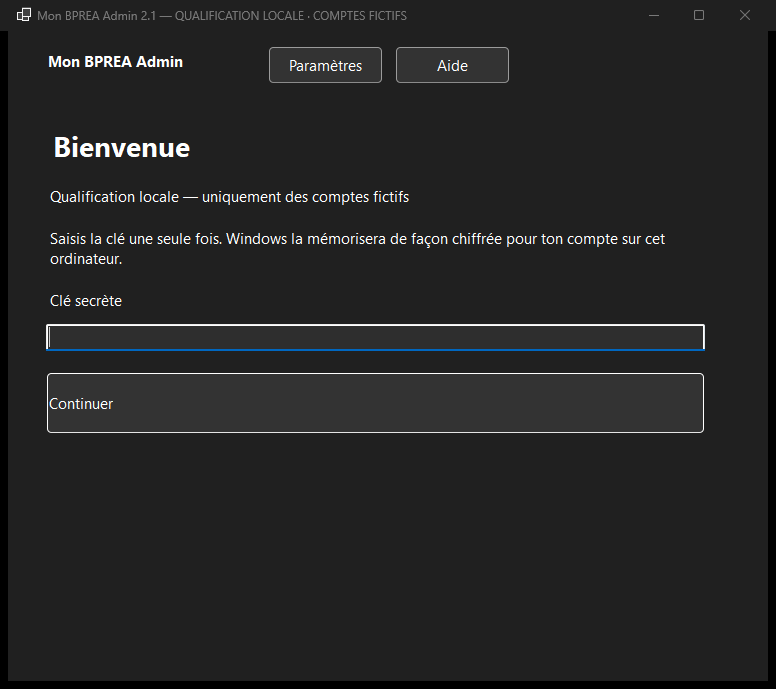
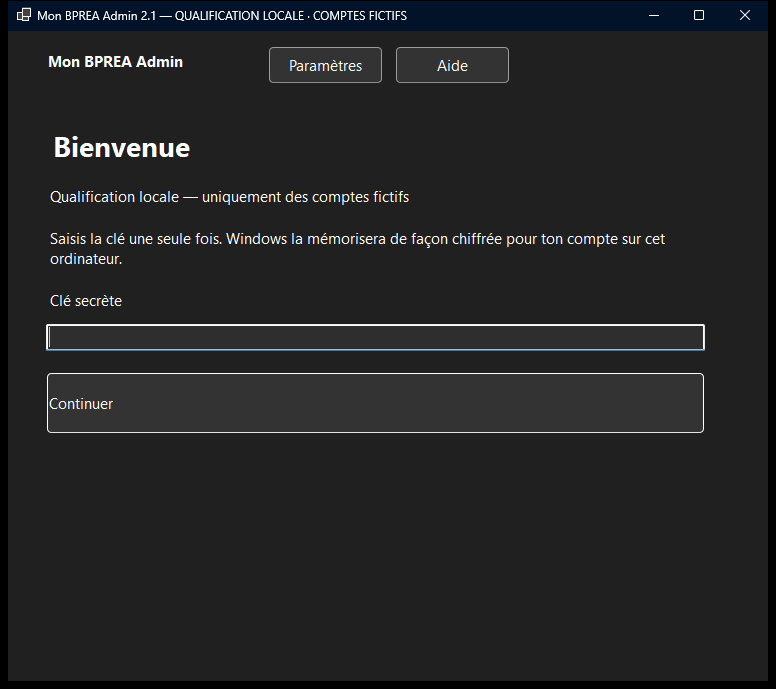
docs: qualify first production invitation with a verified restore

Changed region(s): [[0.0, 0.0, 1.0, 0.061]]

diff --git a/docs/validations/VALIDATION-PREMIERE-INVITATION-PROD.md b/docs/validations/VALIDATION-PREMIERE-INVITATION-PROD.md
@@ -1,21 +1,20 @@
 # Qualification de la première invitation PROD
 
-**18 novembre 2026 — NO GO — CONDITIONS NON SATISFAITES.** Le poste retrouve
-l’historique administratif d’origine. Le point applicatif du 8 novembre est
-intègre et sa limite est dépassée depuis le **15 novembre à 21:48:37 CET**.
-La qualification opérationnelle reste suspendue à la validation des accès dans
-l’assistant et à une nouvelle archive PROD restaurée sur ce poste.
+**18 novembre 2026 — GO — PREMIÈRE INVITATION PROD AUTORISABLE.**
+**Sauvegarde applicative PROD restaurée et vérifiée.** Le binaire 2.1 a
+renouvelé le point restauré et retrouve l’historique administratif d’origine.
+Le nouveau point arrive à échéance le **25 novembre 2026 à 13:09:16 CET**.
 
 ## Référence et distribution
 
 | Élément | Résultat |
 | --- | --- |
 | Base du chantier | `e5607415b6cc8409d7b7cd1c2957338a4fcacf7e`, fusion [#67](https://github.com/Vladoche/mon-bprea/pull/67) |
-| Revue du changement | [PR #68](https://github.com/Vladoche/mon-bprea/pull/68), ouverte en brouillon |
-| Sources du binaire testé | `35b7375b87369c6ede90ca4362367bf95d4d92b5` |
+| Revue du changement | [PR #68](https://github.com/Vladoche/mon-bprea/pull/68) et [checks de la PR](https://github.com/Vladoche/mon-bprea/pull/68/checks) |
+| Sources du binaire final testé | `7a8948411826eec6196cbf049c7989d75b3ebd88` |
 | Distribution | Mon BPREA Admin **2.1.0.0**, Windows x64 autonome, SDK .NET 10.0.404, exécutable de 116 576 602 octets, signature Authenticode absente |
[4 lines of base64/hex data omitted]
 | Poste | Windows NT 10.0.26300.0, profil opérateur vérifié pour les contrôles réels et espaces isolés pour la recette fictive |
 
 La V2 de référence avait déjà les trois actions, le coffre Windows, DPAPI et le
@@ -34,27 +33,40 @@ perte de la dernière génération valide. [Architecture](../../tools/mon-bprea-
   fichier de lien lisible et DPAPI vérifiés. Ce lien du contrat Node V1 bénéficie
   d’une protection ACL. Les empreintes et dates d’écriture de tous les fichiers
   d’origine concordent après le raccordement et la réouverture.
-- **Sauvegarde.** Point du **8 novembre à 21:48:37 CET**, génération EFS hors
-  dépôt, archive et preuve associée relues et concordantes. Le journal courant
-  examiné contient zéro entrée. Le vérificateur pour opérateur a refusé la
-  preuve courante et l’exécutable a identifié l’expiration de l’archive qualifiée.
-  L’intervalle RPO dépassé est ouvert depuis le **15 novembre à 21:48:37 CET**.
-  Nouvelle extraction, restauration et prochaine échéance valides en attente.
-- **Connexion.** Le Gestionnaire d’identifiants Windows réserve une entrée à
-  Auth et une autre à PostgreSQL. Les deux entrées PROD sont absentes au relevé.
-  Le point d’accès PostgreSQL direct répond en TLS vérifié et exige le mot de
-  passe. La version 2.1 a démarré, retrouvé l’historique et affiché les états
-  d’expiration et de blocage.
-- **PROD.** Projet fixe vérifié actif. L’endpoint public des réglages Auth
-  indique l’inscription publique et anonyme fermées, e-mail activé et confirmation
-  requise. Une transaction SQL en lecture seule a relevé un compte confirmé,
-  un seul UUID et une seule adresse distincte, un profil associé et zéro compte
-  ambigu. Six places administratives restent disponibles à ce relevé. Les dix
-  tables applicatives ont RLS et 24 politiques. La lecture de tables applicatives
-  par `anon` et `service_role` est refusée selon le contrôle de privilèges.
-  `authenticated` ne peut ni renseigner ni modifier `profiles.id`. La lecture
-  avec la clé administrative de l’application et la comparaison PostgreSQL
-  détaillée du préflight restent à effectuer avec les accès du poste.
+- **Sauvegarde initiale examinée.** Point du **8 novembre à 21:48:37 CET**,
+  génération EFS hors dépôt, archive et preuve associée relues et concordantes.
+  Son échéance était le **15 novembre à 21:48:37 CET**. Le journal courant
+  examiné contient zéro entrée.
+- **Nouvelle génération retenue.** Capture PostgreSQL 17.11 du **18 novembre à
+  13:09:16.682 CET**, terminée à **13:09:19.296 CET**, pour **141 222 octets**.
+  Restauration effective et preuve à **13:09:41.577 CET**. Les dix tables,
+  données, structures et droits concordent. Une racine UUID Auth minimale
+  correspond au profil et aux dépendances SQL. Le cluster isolé est arrêté et
+  ses checksums sont conformes. Le vérificateur Node existant a recalculé les
+  empreintes du manifeste, de l’archive et du journal courant et a confirmé
+  l’objectif RPO applicatif. Les preuves et empreintes privées restent sur le
+  stockage Windows chiffré EFS, hors dépôt.
+- **Incident de fraîcheur.** Le dépassement opérationnel a duré du
+  **15 novembre à 21:48:37 CET** au **18 novembre à 13:09:41 CET**.
+  Une première nouvelle archive a été restaurée à **13:02:19 CET**, avec
+  comparaison réussie. Le vérificateur indépendant a refusé ses dates au format
+  Windows. Le correctif a rétabli le format UTC du contrat et l’application a
+  produit une génération distincte, restaurée à son tour. Les archives du 8
+  novembre et de la première tentative ainsi que leurs preuves sont conservées.
+- **Connexion et réouverture.** L’exploitant a renseigné les deux accès dans des
+  champs masqués. Le Gestionnaire d’identifiants Windows a conservé les accès dans
+  deux entrées distinctes après validation. Le binaire final a repris l’historique
+  et a renouvelé la sauvegarde à l’ouverture, avec les accès mémorisés. Une nouvelle
+  ouverture a retrouvé les trois actions et l’état prêt sans ressaisie.
+- **Préflight PROD à 13:11:16 CET.** Projet fixe actif. Les protections Auth
+  confirment l’inscription publique et anonyme fermées, avec confirmation par
+  e-mail. Un seul compte confirmé, reconnu comme exploitant par l’historique, un
+  profil associé, zéro doublon ou compte ambigu, six places disponibles. La
+  concordance Auth/PostgreSQL, des migrations, du catalogue et des droits
+  applicatifs est vérifiée. Les dix tables ont RLS et 24 politiques. Les
+  privilèges de lecture de `anon` et `service_role` et d’écriture de
+  `profiles.id` sont conformes au périmètre attendu. Les contrôles PROD sont
+  restés en lecture seule.
 
 Le point historique a été restauré le 8 novembre dans un cluster PostgreSQL
 isolé. Son périmètre est `public` et `bprea_private`, avec les dix tables,
@@ -70,60 +82,61 @@ synchronisées restent hors portée. Le RTO hébergé reste à qualifier.
 | --- | --- |
 | Vecteurs Node et tests historiques | 87 vecteurs de contrat. Suite Node complète 640 réussis et un ignoré, dont les journaux V1/V1.1/V2 et les scénarios d’incertitude |
 | .NET et stockage réel Windows | 2 573 assertions. Coffre, DPAPI, ACL, EFS, historiques V1/V1.1/V2, réservation ouverte, reçu illisible, fichier manquant, conflit, pointeur périmé et reprise interrompue. Tests du garde avant réservation et POST |
-| PostgreSQL natif Windows | 18 assertions. Archive EDB 17.12 vérifiée et préparée automatiquement. Archive synthétique restaurée dans un second cluster SCRAM en boucle locale. Comparaisons et arrêt vérifiés. Archive corrompue, contenu divergent et journal modifié refusés. L’archive valide reste disponible. Échéance sous horloge contrôlée à 144 h et 168 h |
+| PostgreSQL natif Windows | 18 assertions au premier passage avec préparation de l’archive EDB 17.12 selon son empreinte. 18 assertions sur le correctif avec outils existants, dont la régression du format de date UTC. Archives synthétiques restaurées dans des clusters SCRAM en boucle locale. Archive corrompue, contenu divergent et journal modifié refusés. L’archive valide reste disponible. Horloge contrôlée à 144 h et 168 h |
 | WinForms et paquet | 33 contrôles WinForms, inspection de la distribution, ZIP à trois fichiers et fenêtre de l’exécutable autonome observée |
-| Binaire x64 et stack locale réelle | Champ de clé masqué, configuration initiale, trois actions, fermeture et réouverture sans ressaisie. Création puis activation avec un navigateur neuf et profil lié. Mot de passe seul, e-mail seul et les deux. Connexions réelles sur comptes fictifs, UUID et données des dix tables préservés |
+| Binaire x64 et stack locale réelle | Champ de clé masqué, configuration initiale, trois actions, fermeture et réouverture sans ressaisie. Les trois récupérations ont conservé l’UUID et les données des dix tables. Création puis activation rejouées avec le binaire corrigé dans un navigateur neuf, profil lié et données des autres comptes fictifs préservées |
 | Suppression PROD | Garde testé avant envoi d’un DELETE et réservation. Aucun parcours destructif sur le service hébergé |
 
 Le premier essai natif a révélé que le processus PostgreSQL gardait le flux de
 contrôle Windows ouvert. Le binaire corrigé sépare ce flux. La recette PostgreSQL
 a ensuite réussi, y compris la lecture des empreintes et le refus des tentatives
-invalides. Les captures d’application concernent le binaire référencé ci-dessus.
+invalides. Les captures d’état prêt, de réouverture et d’activation concernent
+le binaire final. La capture du blocage garde la trace de l’état initial.
 La stack fictive a été arrêtée après la recette, ses deux volumes sont conservés.
 Le contrôle de fin de livraison `npm run delivery:complete` a réussi après
-arrêt des tests. Il a libéré **0 Mo** et conservé **7 573,70 Mo** sous `.tmp`.
+arrêt des tests. Il a libéré **0 Mo** et conservé **7 738,03 Mo** sous `.tmp`.
 Le plafond de 500 Mo reste dépassé. La liste blanche ne comportait aucun
 candidat.
 
 - [Première ouverture en qualification](illustrations/premiere-invitation-prod/01-premiere-ouverture.png)
 - [Trois actions après réouverture](illustrations/premiere-invitation-prod/03-reouverture-sombre.png)
 - [État réel du système avant configuration des accès](illustrations/premiere-invitation-prod/04-etat-reel-bloque.png)
+- [État du système après la qualification réelle](illustrations/premiere-invitation-prod/05-etat-reel-pret.png)
 - [Activation fictive dans un navigateur isolé](illustrations/premiere-invitation-prod/participant-activate.png)
 
-Contrôles non exécutés sur PROD et le poste à l’heure du rapport. Validation de
-la clé réelle, authentification PostgreSQL réelle, nouvelle archive et restauration,
-préflight complet, renouvellement automatique effectif après une absence du
-poste et déblocage de l’invitation. Les horloges simulées couvrent les seuils,
-le redémarrage physique du poste reste hors recette. L’accès refusé à un fichier
-EFS de test exerce le garde de lecture. La récupération après perte d’un certificat
-ou du profil Windows reste hors recette.
+Les horloges simulées couvrent les seuils. Le redémarrage physique du poste,
+le rattrapage après un arrêt de plusieurs jours et le futur renouvellement
+planifié restent hors recette. L’accès refusé à un fichier EFS de test exerce le
+garde de lecture. La récupération après perte du certificat ou du profil Windows
+reste à qualifier. La preuve reste limitée au périmètre applicatif. L’isolation
+entre futurs participants n’a été testée qu’en environnement local. Toute
+création réelle est une décision individuelle après ce préflight.
 
 ## Matrice de décision
 
 | Contrôle | Statut | Preuve ou limite |
 | --- | --- | --- |
-| Première configuration graphique | BLOQUÉ | Parcours fictif réussi. Sur le poste, clés PROD à renseigner |
-| Clé mémorisée automatiquement | BLOQUÉ | Redémarrage avec clé fictive réussi. Entrée PROD absente |
-| Accès PostgreSQL de sauvegarde | BLOQUÉ | Entrée PostgreSQL PROD absente |
-| Nouvelle sauvegarde PROD | BLOQUÉ | Extraction en attente de l’accès |
-| Restauration de cette sauvegarde | NON TESTÉ | Archive réelle en attente. Restauration synthétique exécutée |
-| Comparaison des données et schémas | NON TESTÉ | Comparaison de la nouvelle archive PROD en attente |
-| Journal d’effacement cohérent | PASS | Journal courant vide, lié à la preuve historique et relu sur le poste |
-| Maintenance locale configurée | PASS | Contexte protégé raccordé et statut d’échéance lu par l’application. Exécution réelle dépendante des accès |
+| Première configuration graphique | PASS | Champs masqués, compte Windows et configuration reconnus sur le poste |
+| Clé mémorisée automatiquement | PASS | Relecture et connexion avec la clé réelle après réouverture |
+| Accès PostgreSQL de sauvegarde | PASS | Coffre Windows distinct, connexion directe TLS et lecture seule |
+| Nouvelle sauvegarde PROD | PASS | Point du 18 novembre à 13:09:16 CET, empreinte contrôlée |
+| Restauration de cette sauvegarde | PASS | Archive réelle restaurée en isolation, cluster arrêté et checksums conformes |
+| Comparaison des données et schémas | PASS | Dix tables, contenu, schéma, droits et dépendances concordants |
+| Journal d’effacement cohérent | PASS | Journal courant vide, relu et lié à la nouvelle preuve |
+| Maintenance locale configurée | PASS | Renouvellement et restauration déclenchés automatiquement à l’ouverture |
 | Historique administratif retrouvé | PASS | Un candidat et une opération V1 |
 | Historique raccordé à V2 | PASS | Pointeur durable, réouverture et empreintes d’origine vérifiés sur le poste |
 | Absence d’opération incertaine | PASS | Historique relu sous verrou |
 | Stockage Windows conforme | PASS | Propriétaire, ACL, DPAPI, EFS de sauvegarde et périmètre local contrôlés |
-| Inventaire PROD conforme | PASS | Inventaire SQL récent complet et sans doublon. Inventaire avec la clé de l’application en attente |
+| Inventaire PROD conforme | PASS | Inventaires Auth et SQL concordants. Exploitant reconnu et protégé |
 | Inscriptions publiques fermées | PASS | Réglages Auth publics relus, inscription anonyme également fermée |
 | Capacité disponible | PASS | Un compte sur sept au relevé SQL |
 | Création/activation E2E locale | PASS | Exécutable publié et compte fictif activé dans un vrai navigateur |
 | Première invitation bloquée si RPO dépassé | PASS | Expiration vérifiée par la suite native et garde avant réservation et POST. État réel bloqué observé |
 | Aucune mutation PROD non autorisée | PASS | Contrôles de la campagne limités aux lectures Auth/SQL. Écritures de recette en local |
-| Utilisation sans terminal | PASS | Les manipulations du parcours opérateur passent par l’interface. Les suites de développement gardent leurs lanceurs propres |
+| Utilisation sans terminal | PASS | Configuration, renouvellement et relecture depuis l’exécutable Windows |
 
-**Action indispensable.** Ouvrir **Paramètres → État du système → Finaliser la
-configuration** et renseigner les accès dans les champs masqués. L’assistant
-enchaîne contrôle, extraction en lecture seule et restauration. Le verdict pourra
-être réévalué après la vérification de la nouvelle preuve et de l’inventaire dans
-l’application. La suppression PROD relève de sa qualification indépendante.
+L’exploitant peut ouvrir le binaire qualifié et consulter l’état avant sa
+première invitation. Le programme vérifie à nouveau l’archive, l’historique et
+l’inventaire au moment de la création. La suppression PROD reste bloquée
+jusqu’à sa qualification indépendante.

diff --git a/docs/developpement/ETAT-DU-PROJET.md b/docs/developpement/ETAT-DU-PROJET.md
@@ -35,7 +35,7 @@ pas une preuve opérationnelle.
 | Dernière PR fusionnée | [#67](https://github.com/Vladoche/mon-bprea/pull/67), 17/11/2026 à 19:54:22 UTC |
 | Jalons récents | Admin V1–V1.2 (#56–#58), fondations 2027 (#59), accueil/hubs (#60), fidélité visuelle et navigation PR2b/PR2c (#61), suivi documentaire (#62), UC/lecture PR3 lot 1 (#63), persistance clair/sombre (#64), QCM PR3 lot 2 (#65), Drill PR3 lot 3 (#66) |
 | Chantier courant, non fusionné | **Admin 2.1**, [PR #68](https://github.com/Vladoche/mon-bprea/pull/68). [Guide](../../tools/mon-bprea-admin/README.md), [qualification](../validations/VALIDATION-PREMIERE-INVITATION-PROD.md) |
-| Prochaine action | Finaliser les accès de sauvegarde dans Admin 2.1 et obtenir un point PROD restauré vérifié |
+| Prochaine action | Décider la première invitation individuelle dans Admin 2.1, après relecture de l’état du système |
 
 Le lot 1 modernise uniquement les pages UC et la lecture ; il est désormais
 fusionné sur main. Les contenus pédagogiques, données et contrats de
@@ -132,16 +132,16 @@ manuel autorisé sur main ; voir le registre pour la procédure et la recette.
   [Validation et limites](../validations/VALIDATION-ADMIN-V2.md). Les 2 524 assertions
   C#, 33 contrôles WinForms et 640 tests Node réussis (un ignoré) concernent la
   qualification locale V2 du 17 novembre.
-- **Admin 2.1**. Historique opérateur raccordé en place et relu sur le poste Windows.
-  Le garde de création exige un point restauré frais. La saisie initiale des accès
-  PROD et la qualification de la nouvelle sauvegarde restent nécessaires.
-- **Sauvegarde** : dernier point applicatif documenté **08/11/2026 à 20:48:37 UTC**,
-  restauré et vérifié en PostgreSQL isolé à 20:58 UTC. Objectif satisfait à cet
-  instant seulement. Politique : intervalle entre points valides/restaurés ≤168 h,
-  avertissement à 144 h, deux générations utiles, rétention ordinaire de 14 jours
-  selon les décisions approuvées. Le point documenté dépasse désormais 168 h.
-  La relecture du 18 novembre confirme son intégrité et l’échéance dépassée
-  le 15 novembre à 21:48 CET. [Routine et preuve](../deploiement/EXPLOITATION-PRIVEE-SIX-ADULTES.md#sauvegarde-hebdomadaire-et-rpo).
+- **Admin 2.1**. Historique opérateur raccordé en place et relu sur le poste
+  Windows. Coffre et préflight réel validés. Le garde de création exige un
+  point restauré frais. **GO technique pour la première invitation** au
+  préflight du 18 novembre. [Qualification](../validations/VALIDATION-PREMIERE-INVITATION-PROD.md).
+- **Sauvegarde**. Le point PROD applicatif du **18/11/2026 à 13:09:16 CET**
+  a été restauré et vérifié en PostgreSQL isolé à 13:09:41 CET. Échéance
+  **25 novembre à 13:09:16 CET**. Le dépassement a commencé le 15 novembre
+  à 21:48:37 CET, après le point du 8 novembre. L’alerte Admin 2.1 commence à
+  132 h et le renouvellement à 144 h. Deux générations utiles et revue de
+  rétention ordinaire à 14 jours. [Routine et preuve](../deploiement/EXPLOITATION-PRIVEE-SIX-ADULTES.md#sauvegarde-hebdomadaire-et-rpo).
 - **Reprise et clôture** : restauration applicative partielle qualifiée ; Auth,
   Storage, configuration et données non synchronisées exclus. Reprise Auth/service
   hébergé et RTO non démontrés. Circuit de clôture qualifié sur données fictives
@@ -154,8 +154,8 @@ manuel autorisé sur main ; voir le registre pour la procédure et la recette.
 
 ## F — Prochaines actions
 
-1. Finaliser la [qualification de la première invitation](../validations/VALIDATION-PREMIERE-INVITATION-PROD.md)
-   dans **Admin 2.1**, puis revoir le verdict sur la preuve réelle.
+1. Décider la première invitation individuelle dans **Admin 2.1** à la lumière
+   de sa [qualification réelle](../validations/VALIDATION-PREMIERE-INVITATION-PROD.md).
    Le lot 4 tableau de bord/statistiques reste une décision distincte.
 2. Prévoir **PR4, outils spécialisés**, puis **PR5, profil et harmonisation finale**.
    Ce sont des chantiers prévus, sans fusion ni livraison anticipée.

diff --git a/docs/deploiement/EXPLOITATION-PRIVEE-SIX-ADULTES.md b/docs/deploiement/EXPLOITATION-PRIVEE-SIX-ADULTES.md
@@ -2,7 +2,7 @@
 
 **Actualisation du 8 novembre 2026 : procédures préparatoires qualifiées, décision d'ouverture distincte.** Nom de fichier historique conservé. Un exploitant, aucun achat ni nouveau service. [P0 et preuves](PLAN-PREOUVERTURE-PRIVEE.md), [arbitrages résiduels](ARBITRAGES-FINAUX-PREOUVERTURE.md). Décision définitive : **sept comptes au total, un exploitant et six autres participants adultes** ; plafond administratif, sans quota serveur, respecté par le circuit d'invitation contrôlé de l'unique opérateur.
 
-L’[état du projet](../developpement/ETAT-DU-PROJET.md) porte les constats actuels. Le point de sauvegarde du 8 novembre a été relu le 18 novembre. **Fraîcheur dépassée**, renouvellement en attente de la configuration des accès dans l’application. [Qualification de la première invitation](../validations/VALIDATION-PREMIERE-INVITATION-PROD.md).
+L’[état du projet](../developpement/ETAT-DU-PROJET.md) porte les constats actuels. La génération applicative du **18 novembre 2026 à 13:09:16 CET** a été restaurée et vérifiée depuis Admin 2.1. Échéance du point au **25 novembre à 13:09:16 CET**. [Qualification de la première invitation](../validations/VALIDATION-PREMIERE-INVITATION-PROD.md).
 
 ## Registre de publication Pages
 
